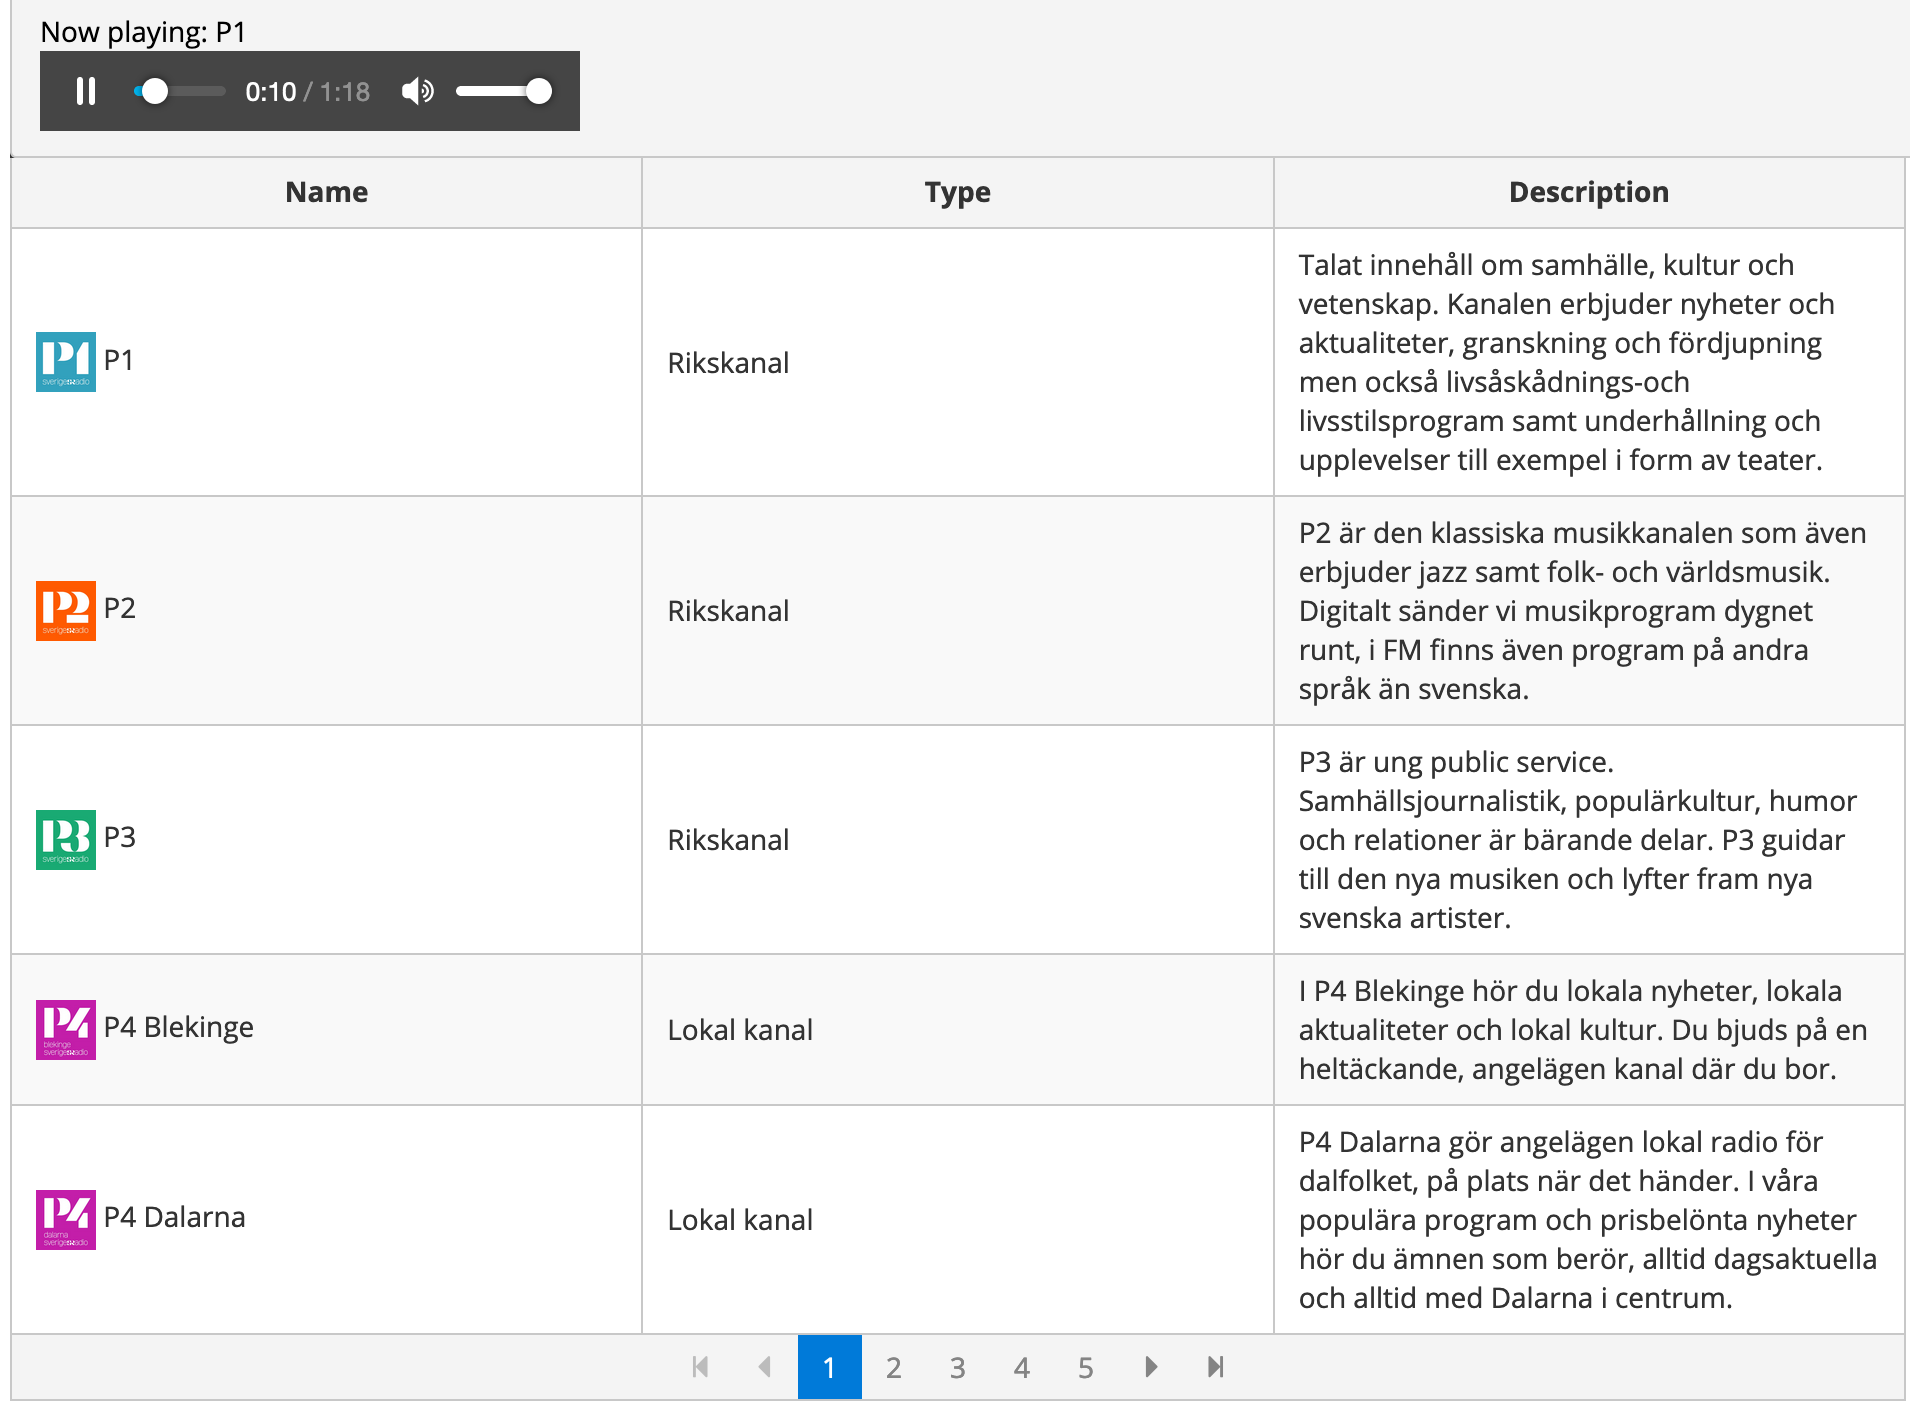
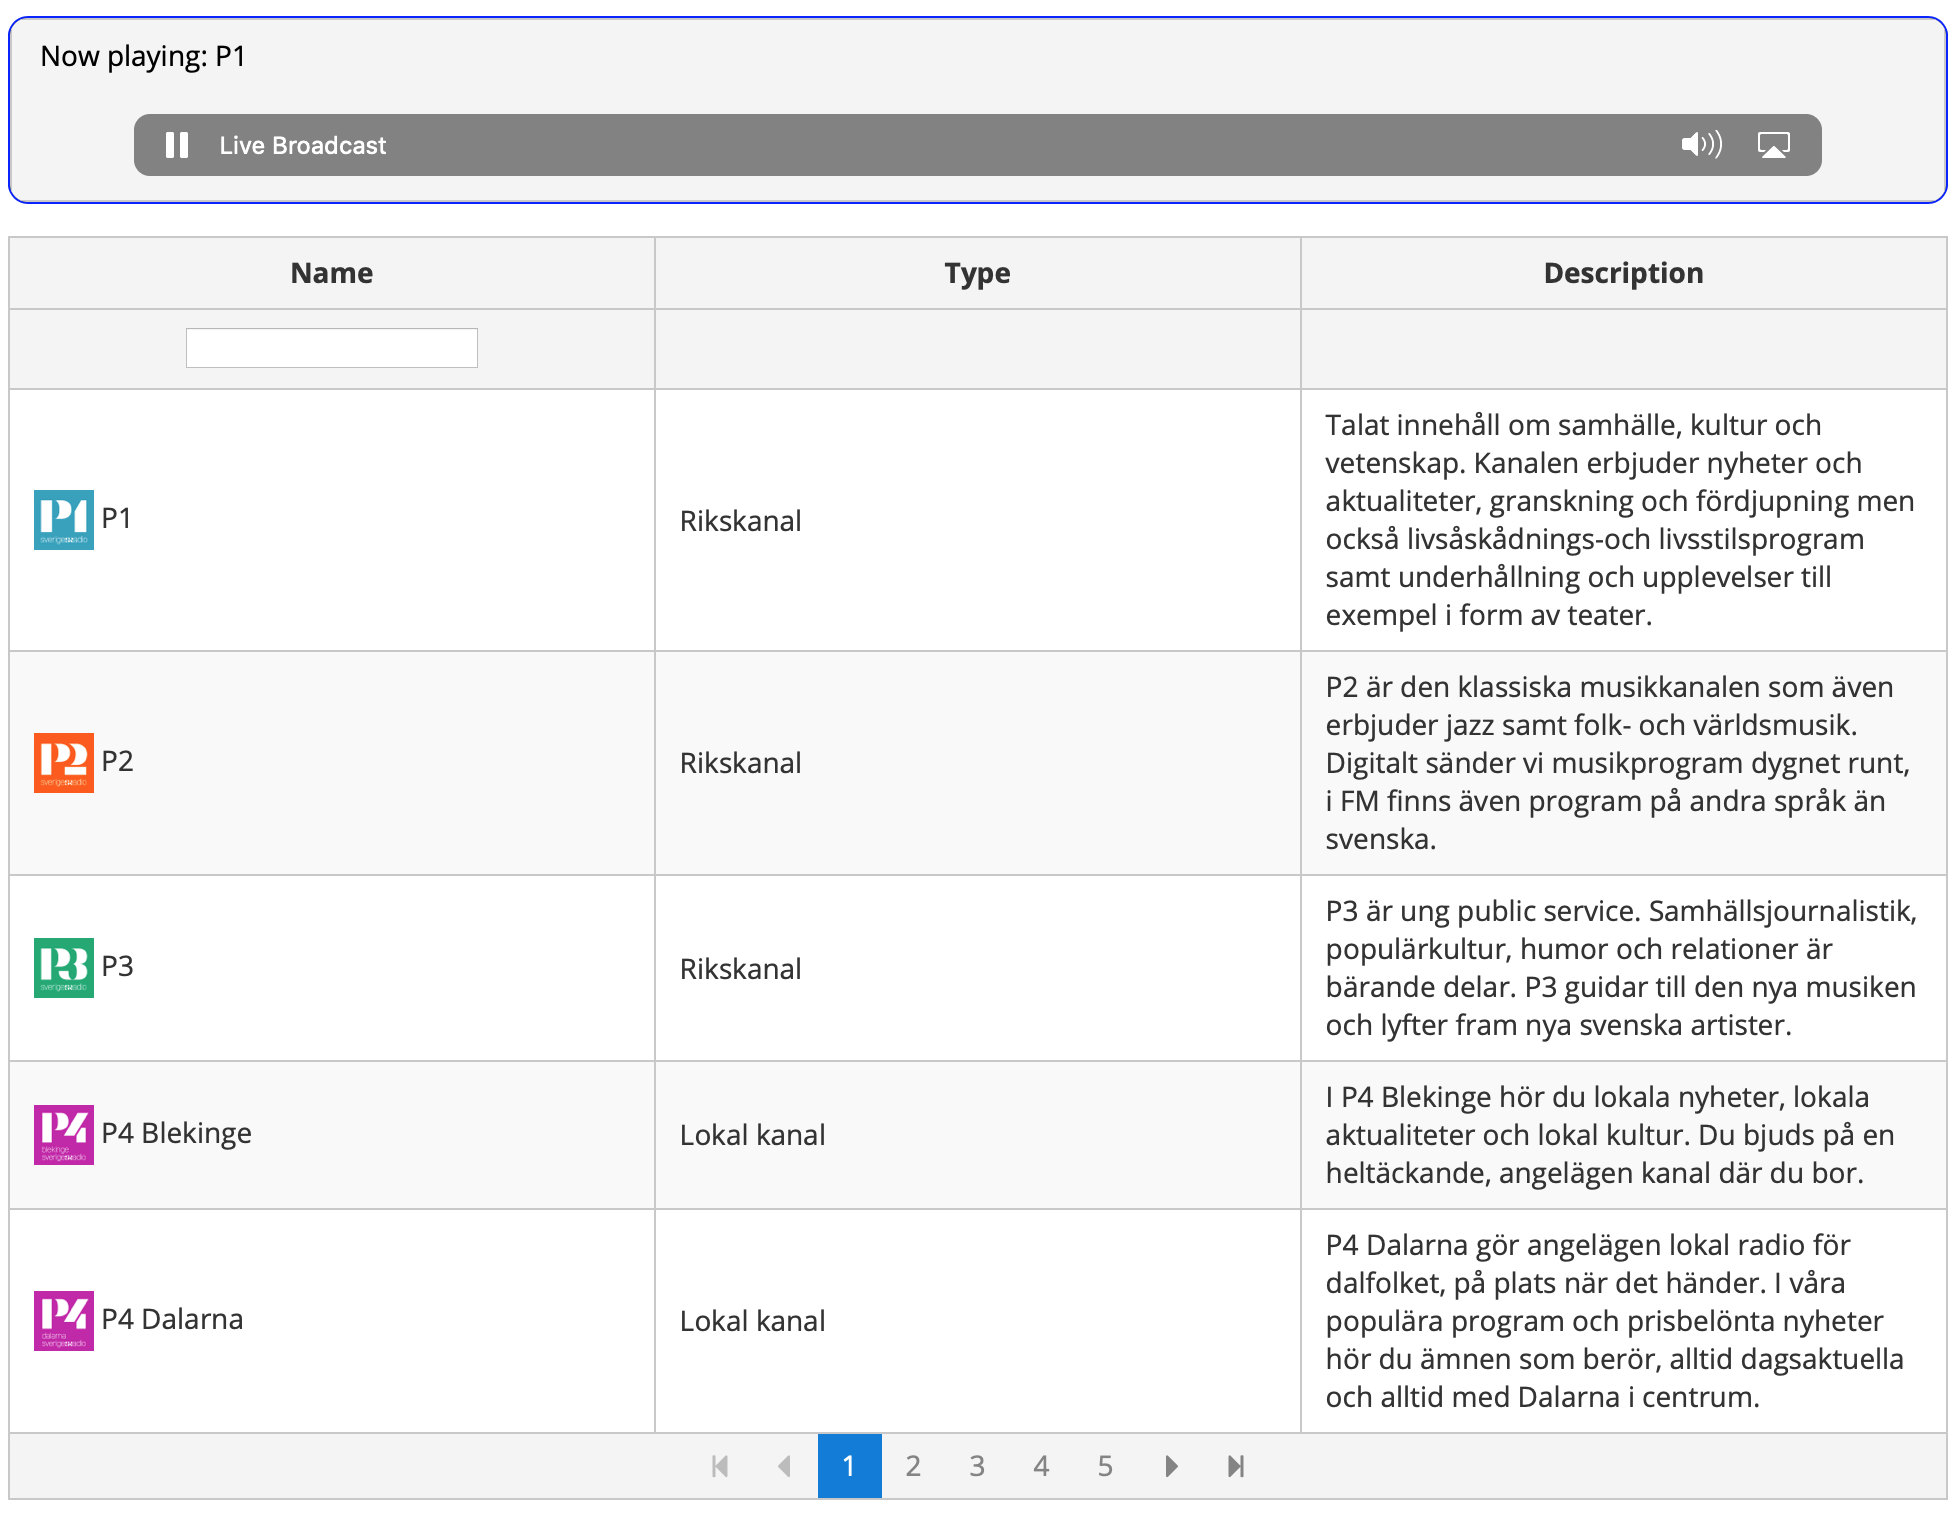
Added filtering and modified styling

diff --git a/src/app/channels-list/channels-list.component.html b/src/app/channels-list/channels-list.component.html
@@ -1,27 +1,37 @@
 <div class="header">
-    <p-toolbar>
-        <div class="ui-toolbar-group-left">
-            <div *ngIf="currentStation">
+    <p-toolbar class="toolbar">
+        <div>
+            <div *ngIf="currentStation" class="now-playing">
                 Now playing: {{currentStation}}
             </div>
-            <audio controls id="audio" preload="none" autoplay="false">
-                <source src="{{currentUrlToPlay}}" type="audio/mpeg">
-                Your browser does not support the audio element.
-            </audio>
-        </div>
-        <div class="ui-toolbar-group-right">
+            <div class="audio-ctl-wrapper">
+                <audio class="audio-ctl" controls id="audio" preload="none" autoplay="false">
+                    <source src="{{currentUrlToPlay}}" type="audio/mpeg">
+                    Your browser does not support the audio element.
+                </audio>    
+            </div>
         </div>
     </p-toolbar>
 </div>
 
 <div class="channels-list">
-    <p-table [value]="channels" [paginator]="true" [lazy]="true" [rows]="pageSize" [totalRecords]="totalHits"
+    <p-table #dt [value]="channels" [paginator]="true" [lazy]="true" [rows]="pageSize" [totalRecords]="totalHits"
         (onLazyLoad)="loadChannelsLazy($event)" [responsive]="true">
         <ng-template pTemplate="header">
             <tr>
                 <th>Name</th>
                 <th>Type</th>
                 <th>Description</th>
+            </tr>
+            <tr>
+                <th>
+                    <input pInputText type="text"
+                    (input)="dt.filter($event.target.value, 'name', 'contains')">
+                </th>
+                <th>
+                </th>
+                <th>
+                </th>
             </tr>
         </ng-template>
         <ng-template pTemplate="body" let-channel>

diff --git a/src/app/channels-list/channels-list.component.ts b/src/app/channels-list/channels-list.component.ts
@@ -21,14 +21,20 @@ export class ChannelsListComponent {
     constructor(private readonly service: ChannelsService) { }
 
     async loadChannelsLazy(event: LazyLoadEvent) {
+        const filters = event.filters;
+        let filter;
+        let filterValue;
+        if (filters && filters.name) {
+            filter = 'channel.name';
+            filterValue = filters.name.value;
+        }
         const page = event.first / this.pageSize + 1;
-        this.channelsResult = await this.service.getChannels(page, this.pageSize);
+        this.channelsResult = await this.service.getChannels(page, this.pageSize, filter, filterValue);
         this.totalHits = this.channelsResult.pagination.totalhits;
         this.channels = this.channelsResult.channels;
     }
 
     rowClicked(channel: any) {
-        console.log('click');
         this.currentStation = channel.name;
         this.currentUrlToPlay = channel.liveaudio.url;
         const audio = document.getElementById('audio');

diff --git a/src/app/channels-list/channels-list.component.css b/src/app/channels-list/channels-list.component.css
@@ -1,12 +1,35 @@
 .header {
     overflow: hidden;
     background-color: #333;
-    position: fixed; /* Set the navbar to fixed position */
-    top: 0; /* Position the navbar at the top of the page */
-    width: 100%; /* Full width */
+    position: fixed;
+    top: 10px;
+    width: calc(100% - 16px);
     z-index: 100;
+    margin-left: 0px;
+    border-radius: 10px;
+    border: solid blue 1px;
+}
+
+.toolbar {
+    padding: 0px !important;
+    margin: 0px;
+    width: auto;
 }
 
 .channels-list {
-    margin-top: 80px;
+    margin-top: 120px;
+
+}
+
+.audio-ctl {
+    width: 100%;
+}
+
+.now-playing {
+    margin-bottom: 20px;
+}
+
+.audio-ctl-wrapper {
+    margin: auto;
+    width: 90%;
 }

diff --git a/src/app/channels.service.ts b/src/app/channels.service.ts
@@ -9,8 +9,11 @@ export class ChannelsService {
 
   constructor(private readonly http: HttpClient) { }
 
-    async getChannels(page: number, pageSize: number): Promise<ChannelsResult> {
-        const url = `${this.getBaseUrlWithDefaultParams()}&page=${page}&size=${pageSize}`;
+    async getChannels(page: number, pageSize: number, filter?: string, filterValue?: string): Promise<ChannelsResult> {
+        let url = `${this.getBaseUrlWithDefaultParams()}&page=${page}&size=${pageSize}`;
+        if (filter && filterValue) {
+            url = `${url}&filter=${filter}&filtervalue=${filterValue}`;
+        }
         return this.http.get<ChannelsResult>(`${url}`).toPromise();
     }
 
